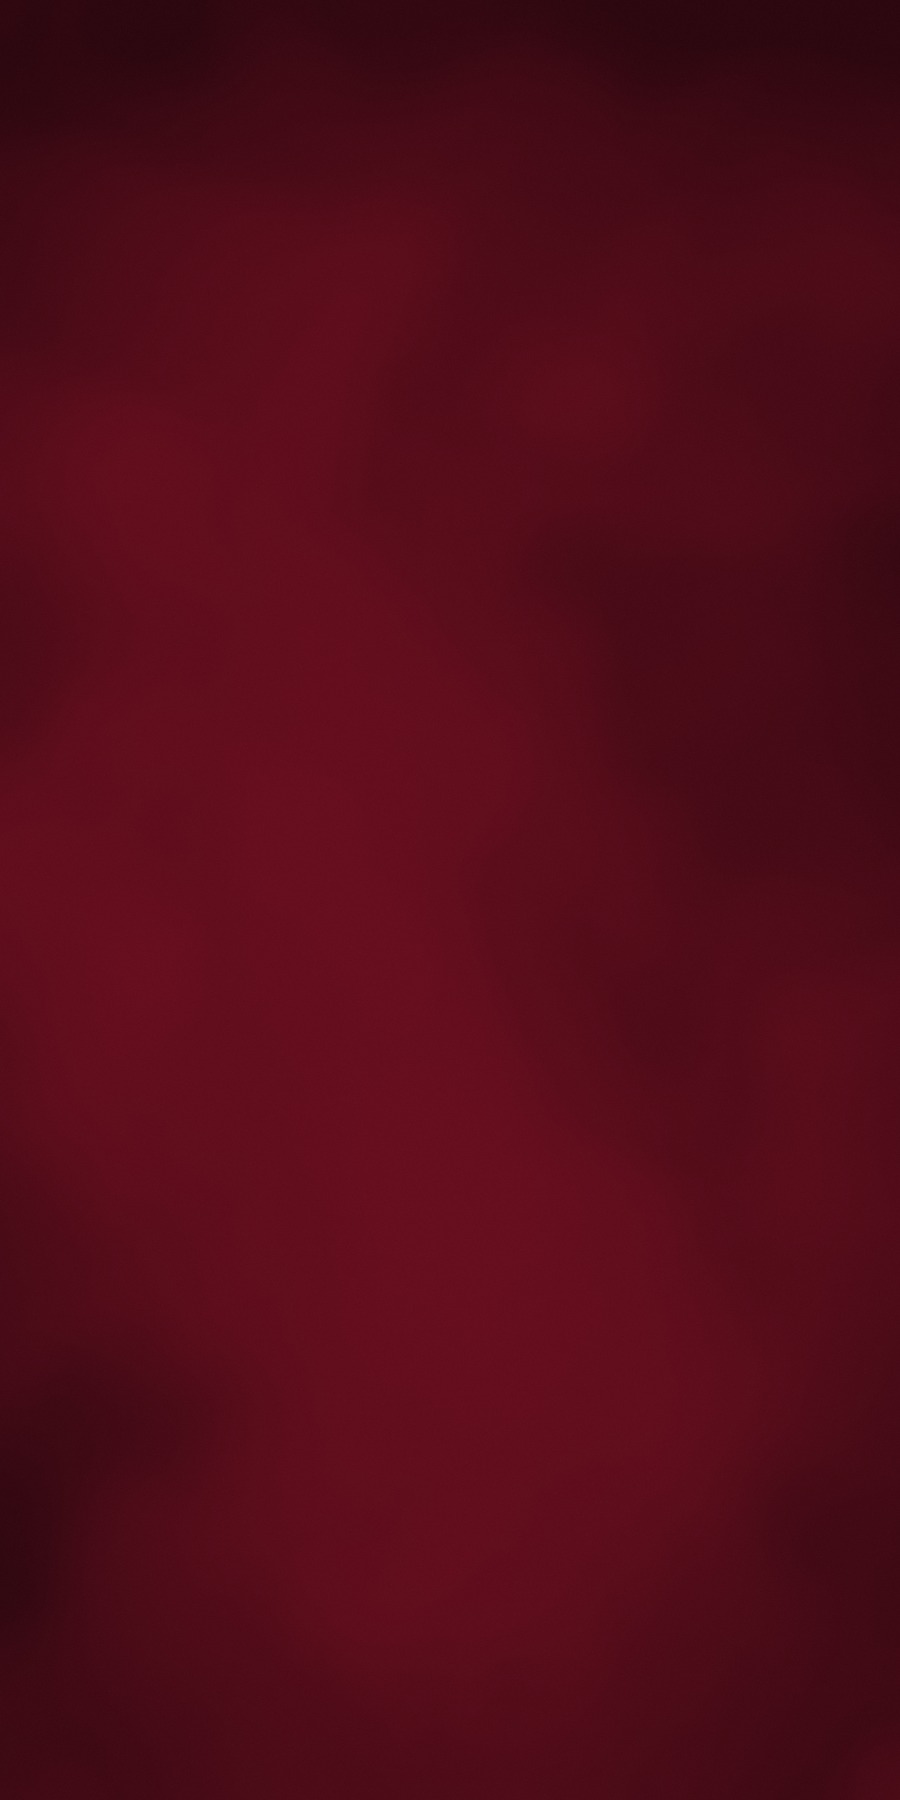
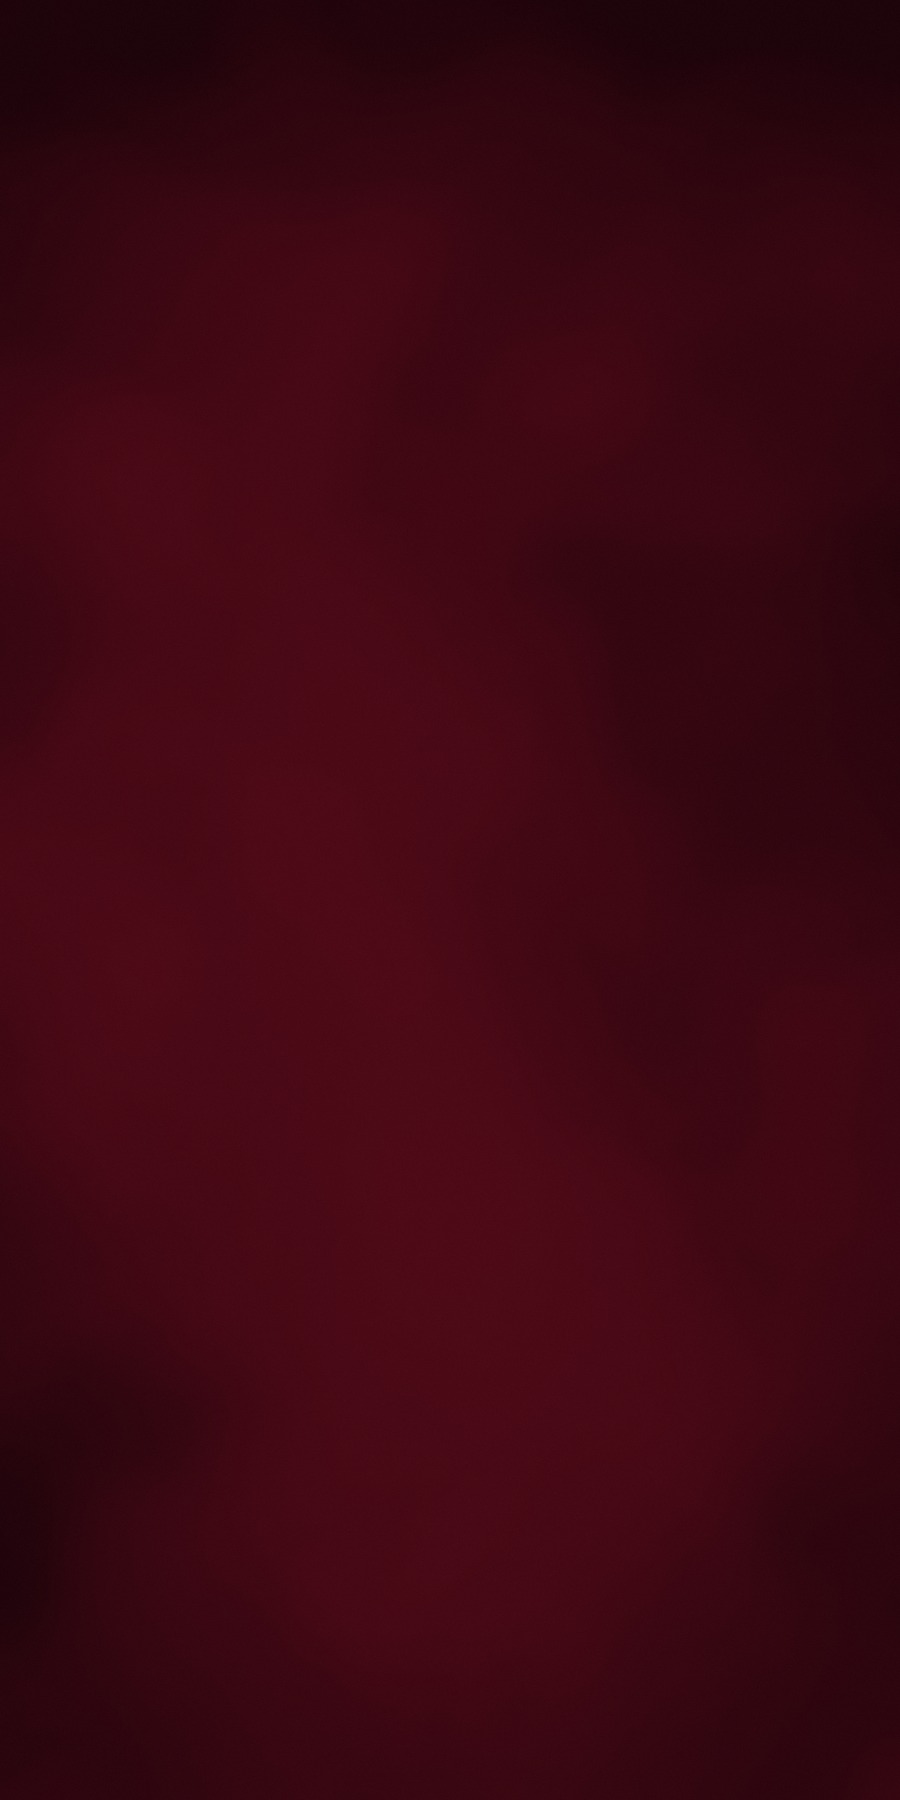
Deeper background that works with the top bar, and a glow behind the dove
Claude-Session: https://claude.ai/code/session_01KtmkHoEustaste9AiB5Gjq

Changed region(s): [[0.0, 0.1556, 0.8089, 0.9333], [0.5911, 0.2178, 0.6222, 0.2489]]

diff --git a/watercolor.css b/watercolor.css
@@ -12,9 +12,9 @@
 
 /* the painted background stays still while the page scrolls
    (a fixed layer works on iPhone, where background-attachment:fixed doesn't) */
-body.wc{background:#560b18;position:relative}
+body.wc{background:#3a0812;position:relative}
 body.wc::before{content:"";position:fixed;inset:0;z-index:-1;
-  background:#560b18 url(images/watercolor-bg.jpg) center top/cover no-repeat}
+  background:#3a0812 url(images/watercolor-bg.jpg) center top/cover no-repeat}
 @media (max-aspect-ratio:3/4){
   body.wc::before{background-image:url(images/watercolor-bg-tall.jpg)}
 }
@@ -41,6 +41,13 @@ body.wc::before{content:"";position:fixed;inset:0;z-index:-1;
 .wc .hero-logo{width:auto;max-width:min(680px,100%);max-height:40vh;max-height:40svh;
   filter:drop-shadow(0 18px 22px rgba(25,2,8,.55));animation:wcFloat 6s ease-in-out infinite}
 .wc .wordmark-wrap{margin-bottom:clamp(1rem,3vh,1.6rem)}
+/* a soft red glow that sits behind the dove in the big logo (page code only:
+   the logo file is not changed). It is tied to the logo, so it stays behind
+   the dove on every screen size. */
+.wc .wordmark-wrap:has(.hero-logo){position:relative;z-index:0;width:fit-content;margin-left:auto;margin-right:auto}
+.wc .wordmark-wrap:has(.hero-logo)::before{content:"";position:absolute;z-index:-1;left:57%;top:34%;
+  width:105%;aspect-ratio:1.2;transform:translate(-50%,-50%);pointer-events:none;
+  background:radial-gradient(closest-side,rgba(170,34,58,.62) 0%,rgba(140,24,46,.42) 32%,rgba(104,16,34,.2) 62%,rgba(80,10,24,0) 100%)}
 .wc .hero p{color:#F1E4CF}
 .wc .hero .tagline{color:#FBF4E6;font-size:min(2.4rem,calc((100vw - 44px) / 24));max-width:none;margin:0 auto clamp(.8rem,2.5vh,1.25rem);
   text-shadow:-1px -1px 0 var(--outline),1px -1px 0 var(--outline),-1px 1px 0 var(--outline),1px 1px 0 var(--outline),

diff --git a/survey/survey.html b/survey/survey.html
@@ -37,7 +37,7 @@ body{
   background-attachment:fixed;
 }
 /* burgundy watercolor background, matching the homepage (stays still on iPhone too) */
-body::before{content:"";position:fixed;inset:0;z-index:-1;background:#560b18 url(../images/watercolor-bg.jpg) center top/cover no-repeat}
+body::before{content:"";position:fixed;inset:0;z-index:-1;background:#3a0812 url(../images/watercolor-bg.jpg) center top/cover no-repeat}
 @media (max-aspect-ratio:3/4){body::before{background-image:url(../images/watercolor-bg-tall.jpg)}}
 .skip{position:absolute;left:-999px;top:0;background:var(--gold-light);color:var(--maroon);padding:.6rem 1rem;z-index:20}
 .skip:focus{left:0}
